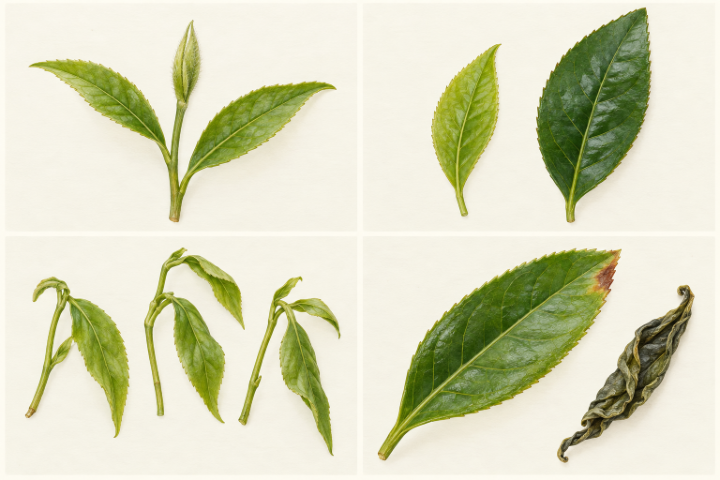
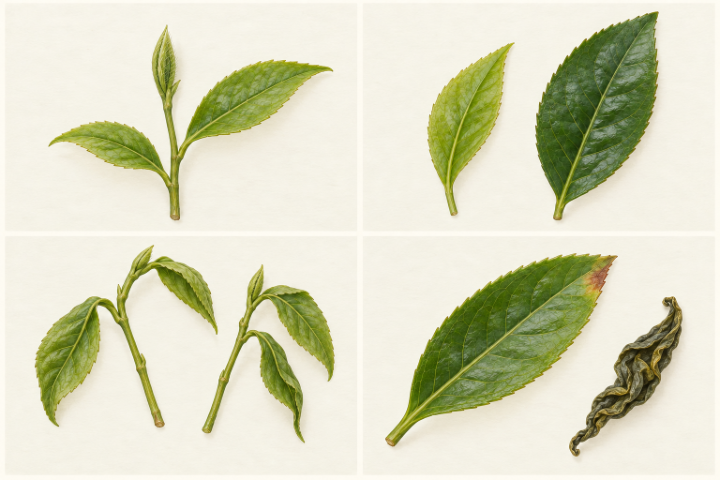
扩写茶章节并重绘茶叶形态教学配图

diff --git a/scripts/enriched_figures.py b/scripts/enriched_figures.py
@@ -92,6 +92,18 @@ def render_enriched(c, figure, helpers):
                     arrow(c, x + 207, y - 7, x + 230, y - 7)
         return True
 
+    if mode == 'tea_adjustment':
+        for i, (question, action) in enumerate((
+            ('太浓或太淡', '先改茶水比例'),
+            ('偏苦或偏涩', '先改时间'),
+            ('前后差异大', '先记展开与续泡'),
+        )):
+            x = 22 + i * 236
+            box(c, x, 250, 205, 66, question, green, 23)
+            arrow(c, x + 102, 241, x + 102, 194)
+            box(c, x, 111, 205, 72, action, blue, 22)
+        return True
+
     if mode == 'tea_routes':
         rows = [
             ('绿茶', ['杀青', '整形', '干燥']),

diff --git a/chapters/14.md b/chapters/14.md
@@ -47,14 +47,14 @@
 
 本书所说的“原叶”，在这里指加工前的茶树鲜叶与嫩梢；商品上的“原叶茶”则常用于描述成品形态，两者不能混用。采摘会选择不同嫩度和芽叶组合，原料选择也是加工的一部分。[81]
 
-<!-- figure-height: 180 -->
+<!-- figure-height: 160 -->
 ![茶树原叶与质感](../assets/figures/leaf-fresh.png)
 
 **图 14-L1　茶树原叶与质感。**
 
 图中从左上顺时针看：一芽二叶的嫩梢、嫩叶与较成熟叶、鲜叶与干叶的质感比较、失水变软的嫩梢。示意没有按真实尺寸绘制，不能拿叶片大小直接判定茶树品种或等级。
 
-先找最尖端尚未展开的芽，再数已经展开的叶。观察叶缘、主脉、侧脉与芽上的细毛，比只看“绿不绿”更具体。白毫是芽叶表面的细毛，不是白茶独有的分类证据。
+先找最尖端尚未展开的芽，再数已经展开的叶。茶树叶在枝条上互生；看一芽二叶的嫩梢，应能辨认两片叶在茎上不同位置的连接，不是同一节点左右对生的一对叶。观察叶缘、主脉、侧脉与芽上的短细毛，比只看“绿不绿”更具体。白毫是芽叶表面的细毛，不是羽毛状附属物，也不是白茶独有的分类证据。
 
 **观察提醒。** 有芽、有梗或有较成熟叶都先如实记录，不立即写成优劣判断。不同茶款需要的原料不完全相同；一芽二叶也只是采摘组合，不能据此猜出最后一定制成哪一类茶。
 
@@ -107,6 +107,16 @@
 
 **一个名字陷阱。** 安吉白茶按绿茶工艺制成，名称与浅色嫩叶有关，不等于萎凋干燥路线的白茶。[80] 遇到它时先问“怎么做”，比问“为什么汤不是绿色”更接近分类。
 
+<!-- page: 14|第三部 茶的世界|绿茶怎样从加工走向杯中 -->
+
+## 绿茶实例：把龙井的“扁”拆开看
+
+看到龙井式扁茶，先把两个问题分开：较早杀青解释它采用的基础路线，压扁整形解释它的外观。加热还会影响香气，因此“绿茶”并不保证只有鲜草气息；同类中也可以感到熟豆、炒米一类联想，但这些词是闻香时的参照，不是每款龙井都要兑现的清单。[34][83]
+
+把一片干茶放到白碟上，会看到它很薄、边缘收拢，有些芽叶紧贴在一起。泡开后，原先压在一起的部位可能分开，叶片也可能保留折痕。**吸水舒展不等于恢复成刚采下的鲜叶**：干燥、受热和机械处理已经改变了组织。不要要求每片叶底都像枝头上一片平整新叶。
+
+换成卷曲形或细条形绿茶时，观察方法仍然适用：分别写下“整形成什么样”和“采用什么路线”，不要把龙井式扁形当成绿茶的通行身份证。购买时也可把“嫩、扁、色浅”等外观描述，和自己实际喜欢的香气、苦涩与厚薄分开。形态好认，口味仍需要尝。
+
 <!-- page: 14|第三部 茶的世界|白茶不等于白色茶叶 -->
 
 ## 白茶：看萎凋，也看芽叶比例
@@ -123,6 +133,16 @@
 **几个名字怎样比较。** 白毫银针与白牡丹的区别，可以从芽为主还是芽叶相连入手；看到寿眉时则进一步观察叶与梗的比例。具体原料、等级和批次要核对产品说明，不靠一张图把所有商品定级。[84]
 
 **同类里的变化。** 散白茶和压成饼的白茶仍可能采用同一基础路线；压制是一种形态变化，不能自动把白茶改判成黑茶。[77] 年份、仓储与茶款也应分开看，别用“老白茶”三个字替代它们。
+
+<!-- page: 14|第三部 茶的世界|白茶的自然叶态怎样观察 -->
+
+## 白茶实例：银针与白牡丹不是大小号关系
+
+白毫银针与白牡丹提供了一个很直观的入门比较：前者以芽为主要识别对象，后者可以观察芽与展开叶的组合。两者不是同一种叶片的大小号；芽的轮廓较细长、两端收尖，展开叶则能看见更宽的叶面与脉络。[84]
+
+白牡丹式干茶常显得比较蓬松，叶片有卷边、弯曲与交叠。泡开后叶片更容易摊开，梗与芽的连接关系也更清楚。自然叶态仍是加工后的形态，不意味着没有失水与叶内变化。白茶以萎凋和干燥为核心，**工序较少并不等于控制较少**；光看“自然”两个字，解释不了萎凋条件与干燥安排。[34][79]
+
+初次比较时，可以先分别泡少量银针与白牡丹，记录芽、叶、梗的比例，再写香气与口感。不要预先规定芽多的一杯就一定更香、更甜或更适合自己。两个茶款若产地、年份与冲泡条件也不同，就把差异保留为一次具体体验，不能只凭这次结果宣布“都是芽叶比例造成的”。
 
 <!-- page: 14|第三部 茶的世界|黄茶的关键是闷黄 -->
 
@@ -143,6 +163,16 @@
 
 黄茶并非只由芽制作；本页限定为芽形实例，不概括全部原料。
 
+<!-- page: 14|第三部 茶的世界|两个银针怎样比较 -->
+
+## 黄茶实例：名字相近，观察问题不同
+
+把白毫银针与君山银针放在一起，最容易先被“银针”吸引：两者都可以保留芽形，也都可能看见细毫。真正区分基础路线，仍要回到白茶的萎凋干燥与君山银针的杀青、闷黄等加工安排。两个名称相似，不代表只是同一种茶的两种产地版本。[84][85]
+
+观察芽形时，先看是独立的芽，还是带着已经展开的叶；再看轮廓、饱满程度与表面质感。芽吸水后可以变得更饱满、稍有张开，却不会因此变成一片宽大的成熟叶。比较干湿时，应在同一种原料形态之内观察变化。
+
+闷黄给理解黄茶提供了工艺线索，但不是一块可直接贴到照片上的黄色滤镜。原料、加工和照明都影响看到的色泽；想在杯中学习，可以把一款黄茶与一款手边绿茶并排，记录鲜爽、柔和、苦涩等自己的感受。即使两杯喝起来相近，也不推翻其工艺差别；喝出差别同样不能证明差别全部来自闷黄。[34]
+
 <!-- page: 14|第三部 茶的世界|乌龙需要分开看氧化与焙火 -->
 
 ## 乌龙：做青 整形与焙火的组合
@@ -161,6 +191,16 @@
 真实案例还有东方美人：茶改场介绍其特定鲜叶条件、较重的萎凋与搅拌，以及成茶的多色外观。[86] 它提醒我们，乌龙不只是一杯浅色、清香的茶。
 
 叶底边缘偏红有时可作观察线索，但不要求所有乌龙都完整呈现“绿叶红镶边”。精制、受热与叶片破损会影响外观；标签与工艺资料仍比一句口诀可靠。
+
+<!-- page: 14|第三部 茶的世界|乌龙的三条比较轴 -->
+
+## 乌龙实例：条索、球形与火香分开记
+
+在乌龙里，形状与香气尤其容易被捆在一起：看见紧卷小团，就预期一定清香；看见深色条索，就预期一定火香重。这样的预期会漏掉同一外形之内的加工变化。可以建立三栏记录：**外形怎样、氧化相关工序怎样、焙火说明怎样**，再把实际尝到的香气写在旁边。[76]
+
+球形干茶不是光滑的豆粒。它由叶片揉卷而成，表面应能看到叶组织的褶皱与不规则接缝；泡开后，团块逐渐松开，叶片和小梗才容易辨认。条形乌龙则以弯曲条索为起点，不必经历从“球”到“叶”的同一种展开。比较插图时，先检查这个最基本的形态因果，再看颜色。
+
+有条件时，选两款标签明确、焙火说明不同的乌龙比较；先闻干茶，再闻温热茶汤，最后看叶底。把“像烤谷物”“像花香”写成自己的联想，不把它们直接当成工序证明。东方美人的案例也提醒我们，鲜叶条件与较重萎凋、搅拌可以参与形成另一种风格；乌龙的范围，比清香与浓香两个商品词更宽。[86]
 
 <!-- page: 14|第三部 茶的世界|红茶看氧化也看叶形 -->
 
@@ -181,6 +221,16 @@
 
 可以分别观察干茶完整程度与出味速度。两者可以有关联，却不能单凭形状预测整杯风味；比较时保持茶量、杯子与冲泡条件尽可能接近。
 
+<!-- page: 14|第三部 茶的世界|红茶整叶与碎形怎样看 -->
+
+## 红茶实例：叶底不是完整叶片考试
+
+条形红茶的干茶看起来细而深，吸水后可见偏铜褐的叶组织；但一根条索未必对应一张完整大叶。原料的芽叶组合、揉捻破损与后续筛分，都会影响最终看到的是芽、整叶、半叶还是碎片。碎形红茶还可能有专门的机械切碎揉碎安排。[81]
+
+因此，检视叶底时应先问“它原本就是哪种产品”，再讨论完整程度。拿茶包里的细碎红茶去和整叶茶比谁更像枝头叶片，比较对象就错位了。细碎材料也不是许多圆润种子；它们仍是加工后的茶组织，只是颗粒尺度与破碎状态不同。
+
+一个容易做的练习，是在相近条件下比较手边的整叶红茶与碎形红茶，观察颜色和滋味出现的节奏。材料更碎会改变与水接触的条件，但两款茶还可能有原料和配方差别，所以这只是出味过程的观察，不是“整叶一定清淡、碎茶一定粗劣”的验证。[81] 同样，金色芽尖是外观线索，不能代替对原料、工艺与整杯风味的判断。
+
 <!-- page: 14|第三部 茶的世界|黑茶与紧压茶不是一回事 -->
 
 ## 黑茶：看微生物过程，别只看深色
@@ -199,6 +249,16 @@
 **读茶款时问什么。** 看到六堡、茯砖或普洱熟茶等名称，继续核对原料与生产说明，不把它们当成完全相同的处理法。尤其普洱要另分生熟，下一页把这条岔路单独展开。
 
 可以把“深褐、叶片破碎、含梗”与气味记录分开写。外观可以提示继续检查，不能代替产地、年代与工艺的证据。
+
+<!-- page: 14|第三部 茶的世界|深色茶怎样避免望图猜工艺 -->
+
+## 黑茶实例：先把外观记录写具体
+
+遇到熟普洱式的深色茶，先不用“黑乎乎”概括。试着分成三个问题：干茶是细条、粗条还是碎片？能否看到叶脉、卷边与梗？湿叶是柔软展开，还是依然成团？这些记录能帮助你描述手中的材料，却无法从叶面直接看出用了哪些微生物。[34]
+
+本章图中的熟茶应保留深褐色叶组织的质感，泡开后仍是有厚薄、有脉络的湿叶或叶片碎块，不是几块坚硬木片，也不是重新变回嫩绿鲜叶。颜色深时，更需要靠轮廓、褶皱与光泽区分干湿，不只比较哪一边更大、更亮。
+
+六堡、茯茶与普洱熟茶可以作为继续阅读的不同入口，不能把一款熟普洱的外观推广为全部黑茶的标准。实际商品还要看原料、工艺与形态说明。[77][87] 如果记录到明显的不愉快气味，就如实写下具体感觉，不为了符合“陈香”一词勉强改写体验；判断异常与保存问题，应结合来源、包装和储存情况，单张示意图承担不了这个任务。
 
 <!-- page: 14|第三部 茶的世界|普洱先问生茶还是熟茶 -->
 
@@ -224,6 +284,16 @@
 **别把压制当发酵。** 晒青毛茶是加工后的原料，不是刚采下来的“生叶”；“生茶”也不意味着没有杀青、揉捻和干燥。茶饼则可能装的是不同加工路线的茶。[78][77]
 
 查看包装时，先圈出生或熟，再记录生产日期和储存信息。尝到的陈香是感官记录，不能单凭它验证十年、二十年等年份；也不要仅凭“越陈越香”的宣传决定保存多久。
+
+<!-- page: 14|第三部 茶的世界|普洱的加工身份与存放记录 -->
+
+## 普洱实例：把四项信息分开读
+
+一款普洱至少有四项需要分别记录：生或熟、散或压、生产日期、储存情况。“生熟”回答加工路线，“散压”回答商品形态，日期与储存则帮助理解这批茶后来的经历。这四项不能互相代替；熟茶不必做成饼，生茶也不会因放久了就自动取得熟茶的加工身份。[77][78]
+
+例如，拿到一饼标为生茶的产品，第一步是读清生熟说明，不是先猜汤色；第二步辨认压制形态，不是把紧压当作人工渥堆；第三步记录包装所列日期和自己知道的储存信息，未掌握的部分就写“未知”。一杯颜色较深的茶汤，可以提出继续核查的问题，不能补上这些缺失的履历。
+
+做长期个人记录时，可保留同一批茶的标签照片和每次取样日期，在相近泡法下比较。这样得到的是“这份茶在我这里怎样变化”的观察，比仅凭一次陈香感受猜年份更有用。不同仓储、批次与冲泡条件可能同时存在；不要把两款陌生茶的差别，直接讲成一条所有普洱都必经的陈化故事。
 
 <!-- page: 14|第三部 茶的世界|花茶 抹茶与草本饮品放在哪里 -->
 

diff --git a/chapters/15.md b/chapters/15.md
@@ -27,6 +27,18 @@
 
 记下每次改变的条件和结果，逐渐找到合口味的泡法。
 
+<!-- page: 15|第三部 茶的世界|茶水比例与浓淡分开记录 -->
+
+## 茶放得多，与泡得久有什么不同
+
+投茶比例是开始时干茶与用水的关系；喝到的浓淡是这次冲泡后的感受。两者有关，却不能画等号。同样一小撮茶，叶片形态、接触时间和是否续泡不同，得到的杯子也可能不同。记录“茶多水少”，还不足以复现一次冲泡。
+
+**本书自拟的比例小样。** 若已有秤和量杯，可取同款茶两份，分别用干茶 2 克与 3 克，各加水 200 毫升；采用相同水温、器具和接触时间，到时都把茶与水分开。它只比较增加投茶量的影响，不是六类茶的统一推荐配方。没有量具时，用同一小匙、同一杯的固定水位作粗略记录也可以，只注明没有称量。
+
+想比较时间时，另外取两份相同干茶，从相同条件开始，分别在约定时间出汤。比从同一杯不断舀走茶汤更容易保持各自的茶水关系；后者适合随手体验，不是严格对照。
+
+若一杯只是整体太浓，可先分出一点加少量饮用水尝试。补水是在调整已经得到的茶汤；下一次减少茶量或缩短浸泡，则是在改变提取过程。不要把这几种调整混记成同一个配方。
+
 <!-- page: 15|第三部 茶的世界|水与杯子先当工具看 -->
 
 ## 不必先买一套仪式
@@ -56,6 +68,30 @@
 
 这种比较方法也适用于后面的调茶：先看茶底，再看奶、果汁和冰分别改变了什么。
 
+<!-- page: 15|第三部 茶的世界|让叶子有展开与离水的空间 -->
+
+## 滤篮解决的不只是过滤
+
+第十四章的球形乌龙，干时是揉卷的叶团，泡后才逐渐展开；碎茶则不会重新拼回完整叶片。把两者都装进同样狭小的滤球，看到的叶态和使用体验可能不同。观察揉卷茶时，选能容纳展开叶片的滤篮，不要把“塞得满”当作投茶量合适的依据。
+
+**用一次冲泡认识器具。** 注水前确认滤篮能稳定放在杯口，手柄方便提取；到时把滤篮取出并放进接水的小碟。使用壶或盖碗时，也留意倒出后里面是否还有明显余汤。叶片继续接触水，就仍属于后续冲泡安排；“计时结束”不自动等于停止接触。
+
+不熟悉盖碗时，可先用常温水练习握持和倒水，控制在能稳稳操作的装水量。盛热水的杯壶放稳，倒茶时让手避开出水口和蒸汽；不必为追求动作好看使用难以握持的器具。
+
+喜欢大杯久浸或随喝随续水，也可以照常饮用。只是记录时注明“叶子一直在杯里”，别与每泡都出尽茶汤的小壶泡法直接比较秒数。先说明操作，数字才有意义。
+
+<!-- page: 15|第三部 茶的世界|续泡与冷却后的比较 -->
+
+## 下一泡不只是重新按一次计时
+
+续泡时，材料已经吸过水，也经历过前一次提取；第一泡与第二泡不是两份相同的干茶重新开始。紧卷叶逐渐舒展是可见变化之一，实际滋味还需要尝。不能只凭叶片泡大了，就宣布下一泡一定更浓或更好。[95]
+
+**给续泡留三项记录。** 写下本次加水量、接触时间，以及两泡之间是否留有余汤。若上一泡偏淡，下一泡可以先只延长接触时间；若偏浓，则试着缩短。以合口味为目标，不要求用同一时间泡到底，也不靠固定的耐泡次数给茶定级。
+
+比较时还要照顾饮用温度。先把样品放到能舒服入口的程度，再各取一小口；别让一杯刚出汤、另一杯已放很久，却把全部区别都归给茶。温度下降后的香气与口感也可另外记录，但冷却过程中出现的变化不等于原来的冲泡条件改变。
+
+叶底照可以在这一轮结束后再拍：沥出少量叶片，放在同一白碟上。把干茶、泡开后的叶态和每泡记录连起来，比只拍一杯深浅不明的茶汤更便于回顾。
+
 <!-- page: 15|第三部 茶的世界|三杯泡茶小样，只让一个条件变化 -->
 
 ## 三杯泡茶小样，只让一个条件变化
@@ -67,6 +103,31 @@
 **图例。** A、B、C 分别浸泡 1、2、3 分钟；茶、水量、投茶量、水温与器具保持一致。
 
 图中都取同一批茶、同样的投茶量、水量、水温与器具，只把时间设为 1、2、3 分钟。具体茶品仍按包装或自己已有做法调整。这是本书的控制变量示例，目的是比较某个改变发生后你观察到什么，不承诺时间越长越好。若同时换水、换茶与换器具，就很难只解释时间的影响。
+
+<!-- page: 15|第三部 茶的世界|先选一个要调整的问题 -->
+
+## 把冲泡调整拆成三个问题
+
+<!-- figure-height: 155 -->
+![把冲泡调整拆成三个问题](../assets/figures/15-7.png)
+
+**图 15-7　把冲泡调整拆成三个问题。**
+
+**图例。** 三列分别从浓淡、苦涩和前后差异出发，提示先观察茶水比例、时间以及展开与续泡；箭头是下一轮尝试的方向，不表示单一因果。
+
+这张图是本书自拟的排查起点。偏苦也可能伴随太浓，续泡差异也不只来自叶子展开；先选一个问题、改一项、再尝结果。若改变后没有改善，就保留记录，重新判断，而不是认定自己的舌头错了。
+
+<!-- page: 15|第三部 茶的世界|泡得不合口味时怎样调整 -->
+
+## 先说清楚是苦、涩，还是淡
+
+“这杯不好喝”还不是一个足够具体的修改方向。苦是味觉感受；涩更接近口腔发干、收敛的感觉。香气弱、整体淡、入口厚薄又是另外的观察。它们可以同时出现，先写最明显的一项即可，不要求第一次就用准所有术语。
+
+若这次主要是苦涩过强，下次先保持水、器具和茶量，缩短接触时间。若苦涩减轻却整体过淡，再另开一轮调整投茶量。不要在一次尝试里同时降温、换水、减茶和换壶，否则即使改善，也难知道下一次该保留什么。
+
+若茶汤闻着香、入口却觉得淡，先问自己期待的是更强香气、更多滋味，还是奶茶那样的厚度。纯茶与加奶后的触感不同，延长浸泡不保证能得到后者。第十四章的工艺说明用于理解材料，这里的比较用于寻找自己的饮用办法，两者并不互相替代。[34]
+
+为下一次留一句具体动作，例如“同款茶、同一杯，下次提前出汤”；再补一句结果，例如“苦减轻，仍有香气”。两句话已能构成有用的个人配方记录。
 
 <!-- page: 15|第三部 茶的世界|洗茶、润茶与醒茶是在说什么 -->
 

diff --git a/chapters/13.md b/chapters/13.md
@@ -41,7 +41,7 @@
 
 <!-- page: 13|第三部 茶的世界|茶为什么走到了远方 -->
 
-## 船 茶壶与贸易
+## 船、茶壶与贸易
 
 一把茶壶的形状，也能告诉我们饮茶习惯怎样变化。V&A 的茶壶史把中国及日本茶叶的海上出口、欧洲饮茶与器物设计联系起来。早期欧洲茶壶甚至与咖啡壶在设计上有相近之处。[32]
 
@@ -54,3 +54,23 @@
 **观察。** 选一件自己常用的茶具，不查价格，先回答它解决了什么问题：保温、过滤、方便分杯，还是让人围坐？然后找一张博物馆的古代或早期现代茶具图片，看看相同问题如何被另一种形状解决。
 
 这个练习也可以换成咖啡壶或酒杯。历史不一定从背人物开始；有时，从“为什么要做成这样”开始更容易读下去。
+
+<!-- page: 13|第三部 茶的世界|把茶史拆成三条相连的线 -->
+
+## 一片叶子的历史，不只有传播地图
+
+读茶史时，可以把问题暂时拆成三条线。第一条是**材料与制作**：当时处理的是什么原料，怎样让它适合储存与饮用？第二条是**器具与动作**：怎样加热、盛放、分饮，人坐在哪里？第三条是**人与交易**：谁种植、加工和运输，谁有机会消费？三条线相互影响，却不必同时改变。
+
+例如，博物馆里的茶壶能帮助我们理解盛放、倒出与分享，也能联系海上贸易和欧洲消费习惯。[32] 但仅看壶形，无法断定壶里是哪一类茶，更无法重建所有人的日常生活。反过来，一份讲制作技艺的资料，也不一定告诉我们普通家庭怎样喝。UNESCO 将制茶知识与相关社会实践一起记录，正好提醒我们把材料和生活放在同一幅图景中。[31]
+
+本书建议读到一则历史故事时，补问一句：“这份资料具体支持哪条线？”看到运输路线，可以追问货物与人群；看到器具，可以追问使用痕迹与场景；看到茶名，则追问当时的含义。这样读，容易理解茶为什么会改变，也不至于把今天的六类名称、泡法与审美原封不动地搬到古代。
+
+<!-- page: 13|第三部 茶的世界|茶的证据怎样与故事相遇 -->
+
+## “发现得早”与“从这里开始”是两个问题
+
+汉阳陵相关研究结合植物微体、化学标志物与年代分析来讨论茶的遗存。[45] 多种证据相互配合，比只凭一片形似茶叶的材料更有解释力；但发现一处早期证据，仍不等于找到了人类第一次饮茶的那一杯。保存条件、取样地点和研究方法，都会影响我们今天看得见什么。
+
+文字与实物也有不同的提问方式。一部茶书能显示作者怎样整理知识、评价饮茶，却不能自动代表同一时代所有人的实践。Benn 对陆羽、宗教与社会生活的讨论，把文本放回了具体人群与文化关系中。[49] 因此，读到“古人都怎样喝茶”，可以先检查故事说的是哪一地、哪一群人、哪一种材料。
+
+**一页资料的小练习。** 打开本章任意一项来源，写下它的对象、证据和局限各一句。例如：“研究对象是某遗址材料”“依据残留物与年代”“没有完整重建冲泡配方”。这不是要把兴趣阅读变成考据考试，而是让下一章的分类有清楚边界：现代加工路线用于认识今天的茶，历史资料用于理解它怎样进入生活。

diff --git a/README.md b/README.md
@@ -1,6 +1,6 @@
 # 杯中世界
 
-面向个人兴趣的中文图解读本，介绍酒、茶、咖啡的起源、制作与风味。目前全书 183 页、20 个正文章节、读前说明与 3 个附录，引用 112 项资料，含 85 处配图。
+面向个人兴趣的中文图解读本，介绍酒、茶、咖啡的起源、制作与风味。目前全书 197 页、20 个正文章节、读前说明与 3 个附录，引用 112 项资料，含 86 处配图。
 
 **策划与整理：YZ**。工艺、组成与数量图解由项目绘图脚本定义。
 
@@ -44,7 +44,7 @@ python scripts/check_build.py --book-only
 
 得到 `output/杯中世界.pdf`、可编辑合稿、24 份章节 Markdown、导航清单和排版检查记录。`export_chapters.py` 只生成文字导出与导航信息；构建输出中只有一个全书 PDF，没有逐章 PDF 和 ZIP。
 
-图注改动直接编辑 Markdown；更改图形关系时再修改绘图数据或脚本并重绘。原始 AI 插画保留不变。`<!-- figure-height: 160 -->` 这类注释只控制 PDF 中图片的最大高度。
+图注改动直接编辑 Markdown；更改图形关系时再修改绘图数据或脚本并重绘。修订 AI 图板后须保留提示词与审校记录，再重建对应章内图。`<!-- figure-height: 160 -->` 这类注释只控制 PDF 中图片的最大高度。
 
 需要本地构建网页时：
 
@@ -93,3 +93,9 @@ git clone --depth 1 --single-branch https://github.com/YZYExp/Learn-A-Cup-Of-Wor
 第十六至十八章补充植株传播、物种与品种、产地标签、烘焙路标与排气，加入可实际练习的手冲步骤、研磨和水质观察、浓度与萃取算例、意式粉液比、冰手冲用水、冷萃记录与低因原料选择。咖啡三章从24个内容页增至42页，章内配图从14处增至20处。
 
 新增5幅可重绘图解与1幅研磨外观AI教学插画；15项新增资料保留就近引用。全书重建为183页，保留单一全书PDF和24份章节Markdown的交付方式。引用解析支持三位编号，校验同时检查正文引用与对应PDF页下注。范围、图文审查与验证见[咖啡扩展记录](research/coffee-expansion.md)，插画提示词见[研磨插画记录](research/coffee-illustration-manifest.json)。构建命令保持不变。
+
+## 茶章节扩写与形态修订（2026年10月24日）
+
+第十三至十五章新增约 4,850 个汉字、14 个阅读单元，补充茶史证据、六类茶逐类实例、普洱标签与家庭冲泡调整。重绘三张茶图板，替换鲜叶、六类干湿、外形与器具等 11 处章内配图；重点修正芽叶连接、白毫长度、揉卷乌龙与泡后叶片形态，并改用重瓣茉莉花示意。新增图 15-7，用三条独立路径说明冲泡调整起点。
+
+全书重排为 177 页。茶部 50 页已检查缩略图，并放大检查鲜叶、乌龙与新图解页面；图片、图注和页下注校验通过。[覆盖与审校记录](research/tea-coverage.md)及[本轮图板提示词](research/tea-revision-2026-10-24.json)随源码保存。

diff --git a/research/tea-coverage.md b/research/tea-coverage.md
@@ -19,3 +19,23 @@
 | 实践与图像边界 | 观察页 | 干湿观察、拍照条件、真实影像档案 | 完成 |
 
 图像不能验证年份、产地、等级或工艺。不同茶类面板选用不同代表形态，鲜叶图与成品图并非同批加工实验。
+
+## 2026-10-24 扩写与形态修订
+
+本轮覆盖第十三至十五章，新增约 4,850 个汉字、14 个阅读单元。第十三章补历史证据与材料、器具、交易三条线；第十四章补六类茶的逐类观察实例与普洱四项信息；第十五章补比例小样、展开空间、茶水分离、续泡、冷却比较及苦涩调整。
+
+| 配图任务 | 检查重点 | 状态 |
+| --- | --- | --- |
+| 原叶四格 | 芽叶连接位于不同节点，芽为闭合嫩芽，失水叶保持连接 | 已重绘入书 |
+| 六类干湿对照 | 扁茶为薄叶，芽形不变成成熟叶，白毫不画成长羽毛，乌龙为不规则揉卷叶团，红茶及熟茶叶底有折卷与碎片 | 已重绘入书 |
+| 四格器具及外形图 | 卷叶不作光滑圆粒，湿叶不作木质枝条，茉莉改用重瓣白花，器具轮廓可读 | 已重绘入书 |
+| 冲泡调整图 15-7 | 三列独立向下箭头，不连接成因果链 | 已绘制入书 |
+
+共替换 11 处章内图片，新增 1 幅可校验图解。三张选定图板与提示词记录见 [本轮配图记录](tea-revision-2026-10-24.json)。首轮仍过度保留旧图形态的干湿图与四格图未采用，避免将“换一张相似图”当作形态修正。所有示意继续保留 AI 标识与非真实样本边界；引用沿用既有 97 项资料，未声称本轮重新访问核验外部原文。
+
+### 构建验证
+
+- `python scripts/render_figures.py`、`python build_book.py`、`python export_chapters.py`、`python scripts/check_build.py --book-only` 通过：177 页、24 份章节 Markdown、61 幅计划内教学图与既有情境图，唯一全书 PDF。
+- 茶部 50 页全部检查缩略图，放大检查第 86 页原叶、第 95 页乌龙、第 116 页调整图；图文顺序、叶态、图片裁切、图注与页下注未见重叠。
+- 原叶页缩小图高至 160 点，以容纳扩写后的节点和白毫说明；全书正文与页下注最小间距 5.88 点，检查通过。
+- 三章引用键与图片路径、脚本语法、`git diff --check` 通过。未生成网页或推送部署；网页继续消费同一套 Markdown 与图片源码。

diff --git a/CHANGELOG.md b/CHANGELOG.md
@@ -27,6 +27,12 @@
 
 旧提交中的页数、阅读包与上传方式描述的是当时的版本。当前构建与发布约定以 README 为准。
 
+## 茶章扩写与配图形态修订（2026年10月24日）
+
+- 第十三至十五章新增约 4,850 个汉字、14 个阅读单元，补茶史证据、六类茶观察、普洱标签与冲泡调整。
+- 重绘三张图板，实际替换 11 处配图，修正芽叶连接、短细白毫、不规则卷叶、湿叶折卷与茉莉花形态；新增独立三列的冲泡调整图 15-7。
+- 全书 177 页、80 处配图、97 项资料。茶部 50 页完成缩略图检查，关键页放大检查；全书页下注、图注、章节覆盖和图片路径校验通过。
+
 
 ## 全文校订（2026年10月14日）
 
